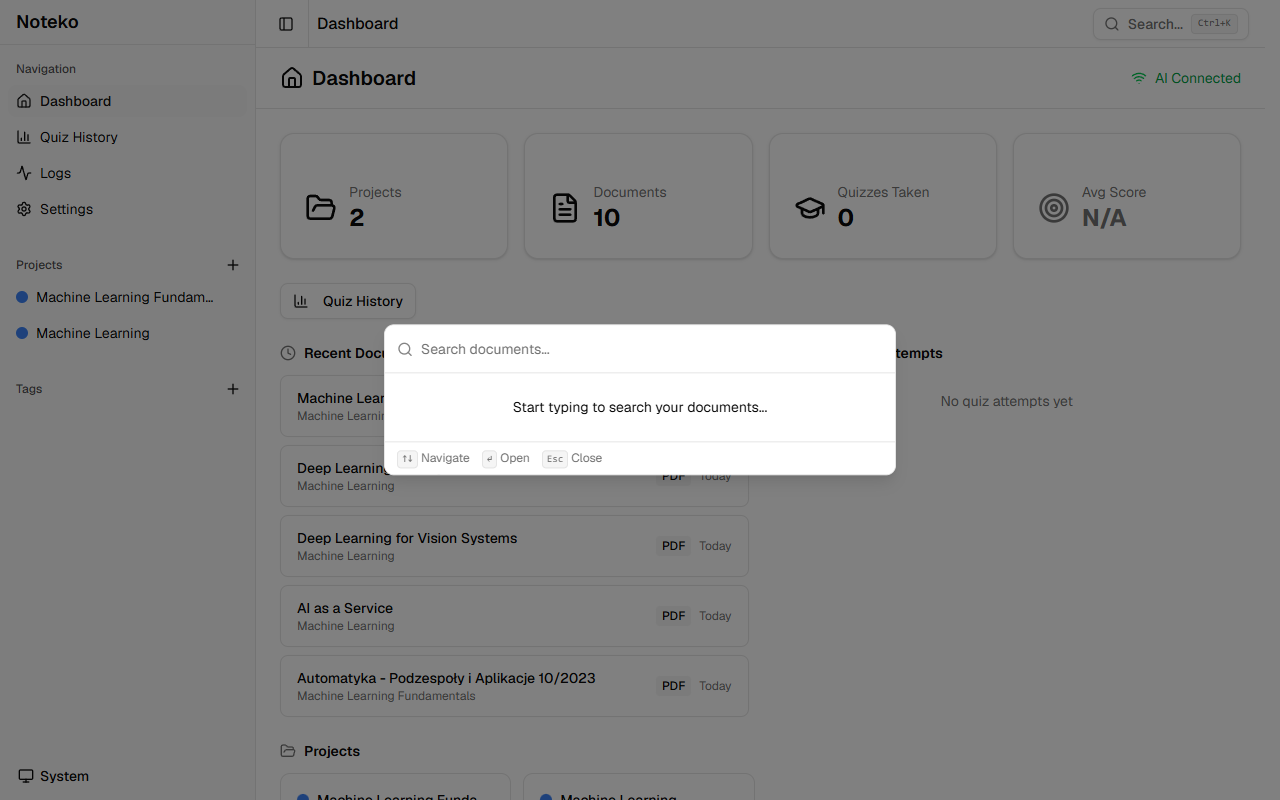
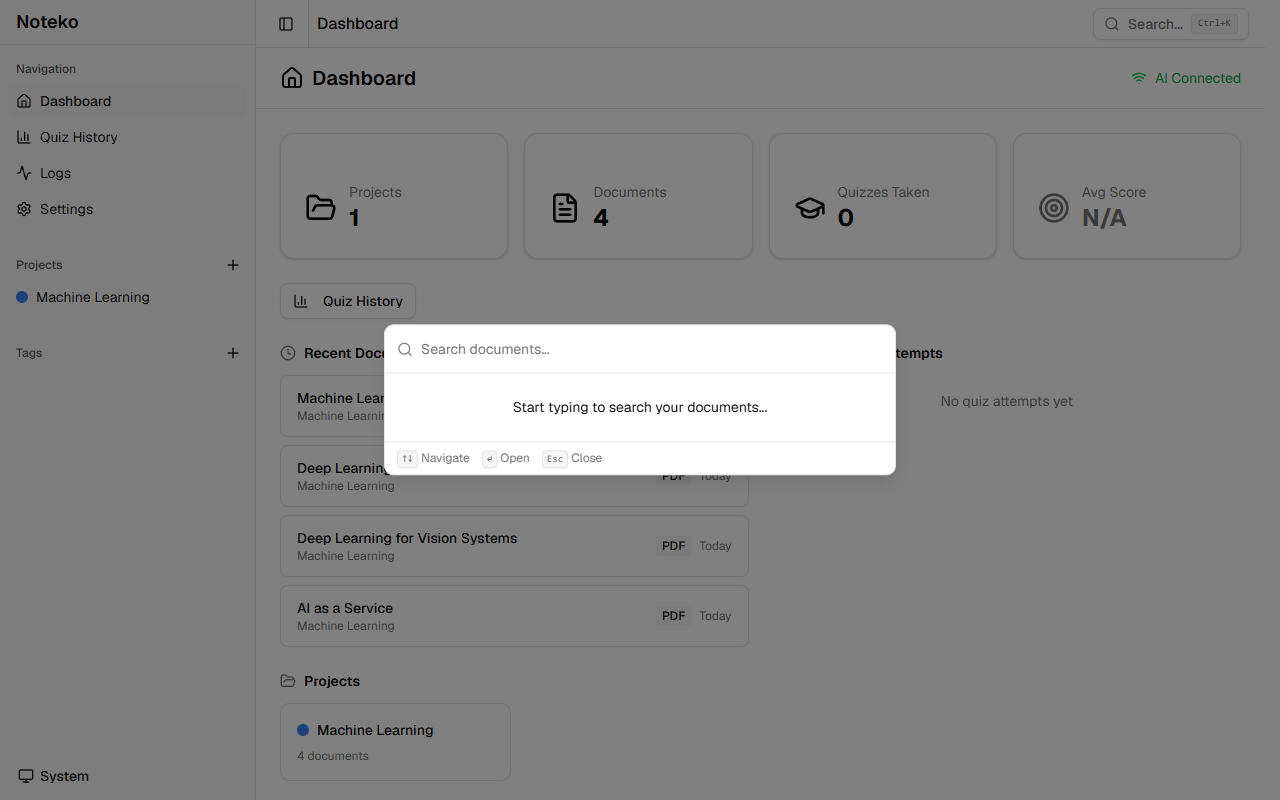
docs: refresh screenshots with clean Machine Learning project only
Delete all existing projects before seeding so screenshots show exactly
one project ("Machine Learning") with the 4 example books.

diff --git a/e2e/screenshots.spec.ts b/e2e/screenshots.spec.ts
@@ -91,11 +91,11 @@ test('capture documentation screenshots', async () => {
     return r.success ? (r.data as Array<{ id: number; name: string }>) : []
   })
 
-  for (const p of allProjects.filter((p) => p.name === PROJECT_NAME)) {
+  for (const p of allProjects) {
     await page.evaluate(async (pid: number) => {
       await (window as unknown as { electronAPI: EA }).electronAPI['db:projects:delete'](pid)
     }, p.id)
-    console.log(`  → Deleted stale project "${p.name}" id=${p.id}`)
+    console.log(`  → Deleted project "${p.name}" id=${p.id}`)
   }
 
   // Create fresh project
